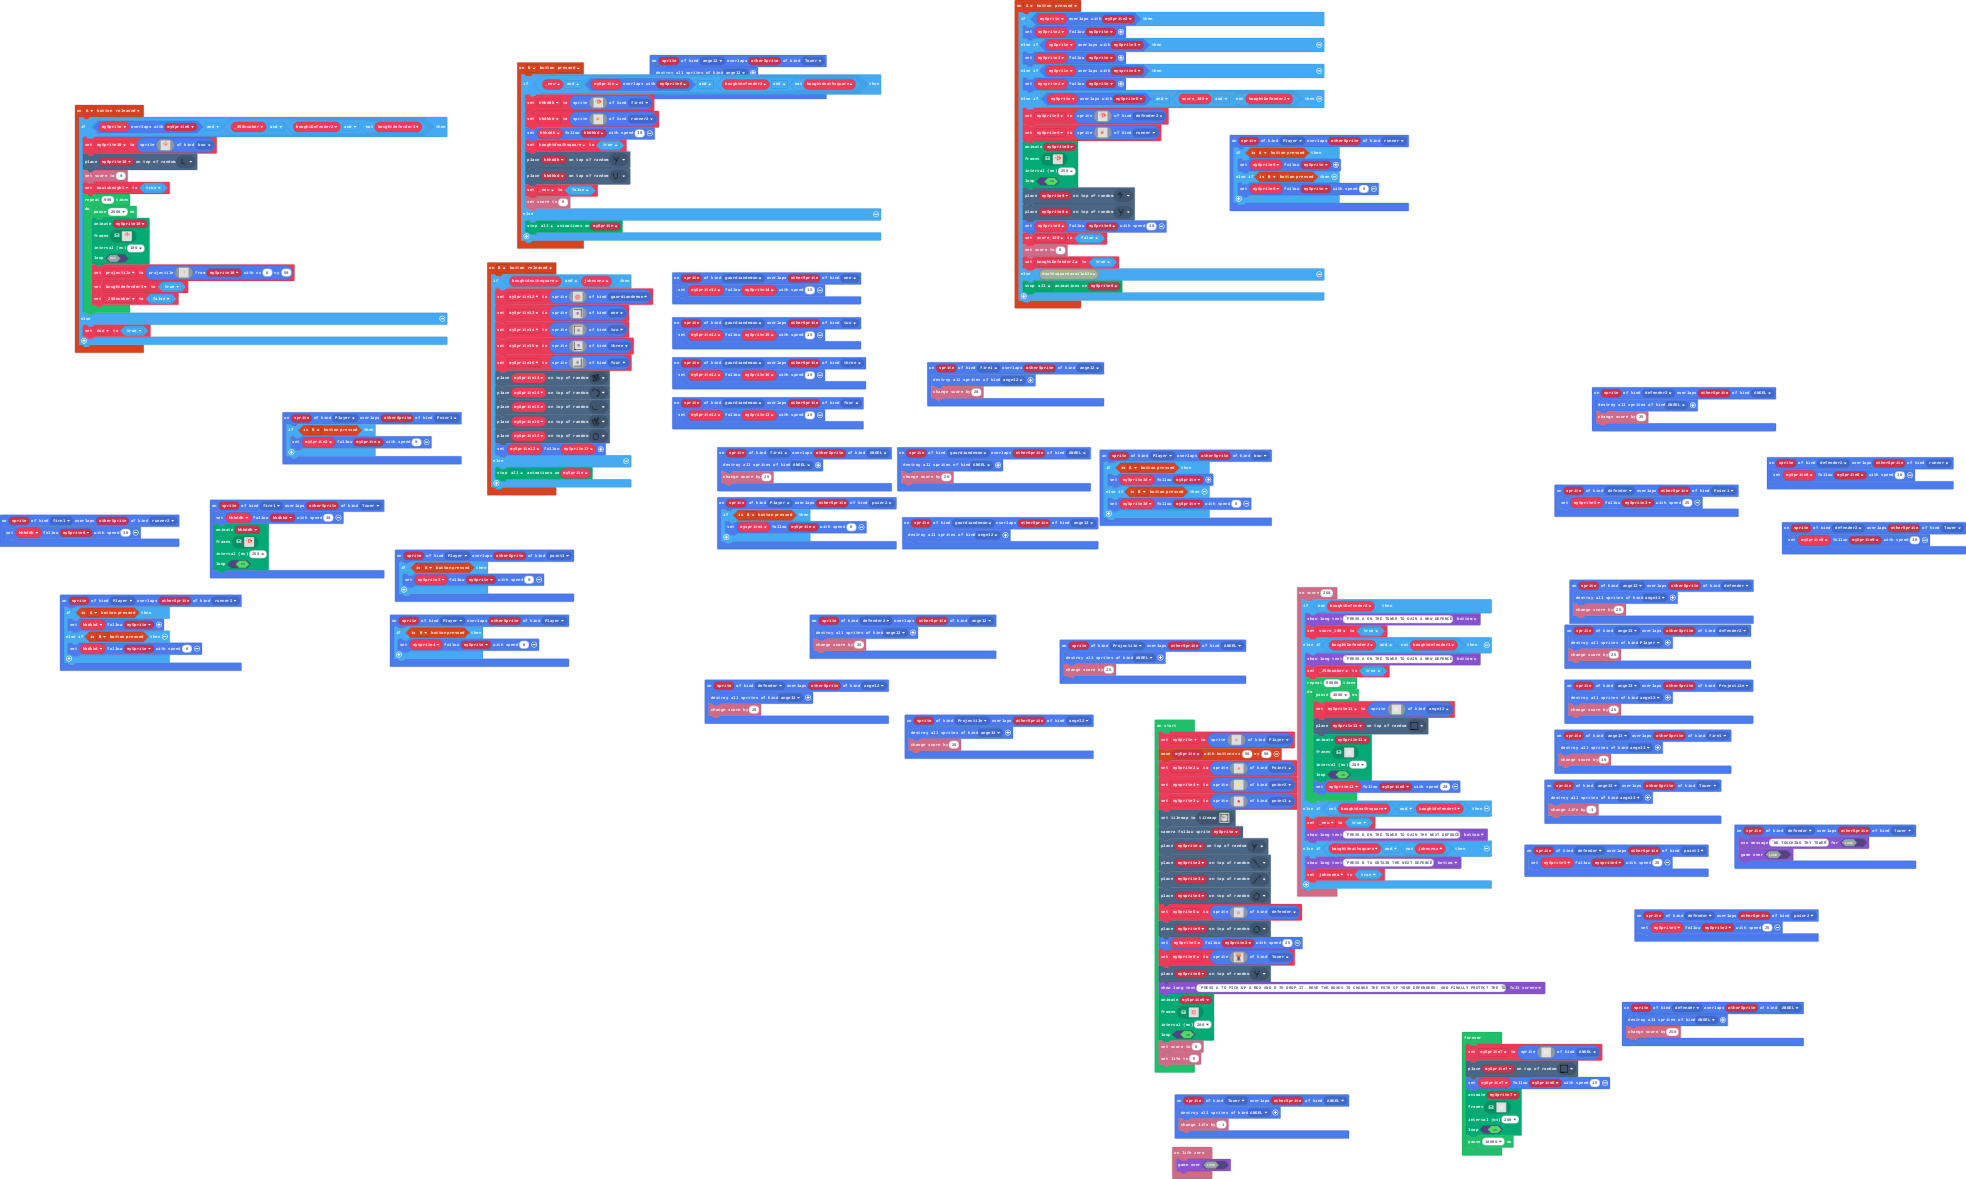
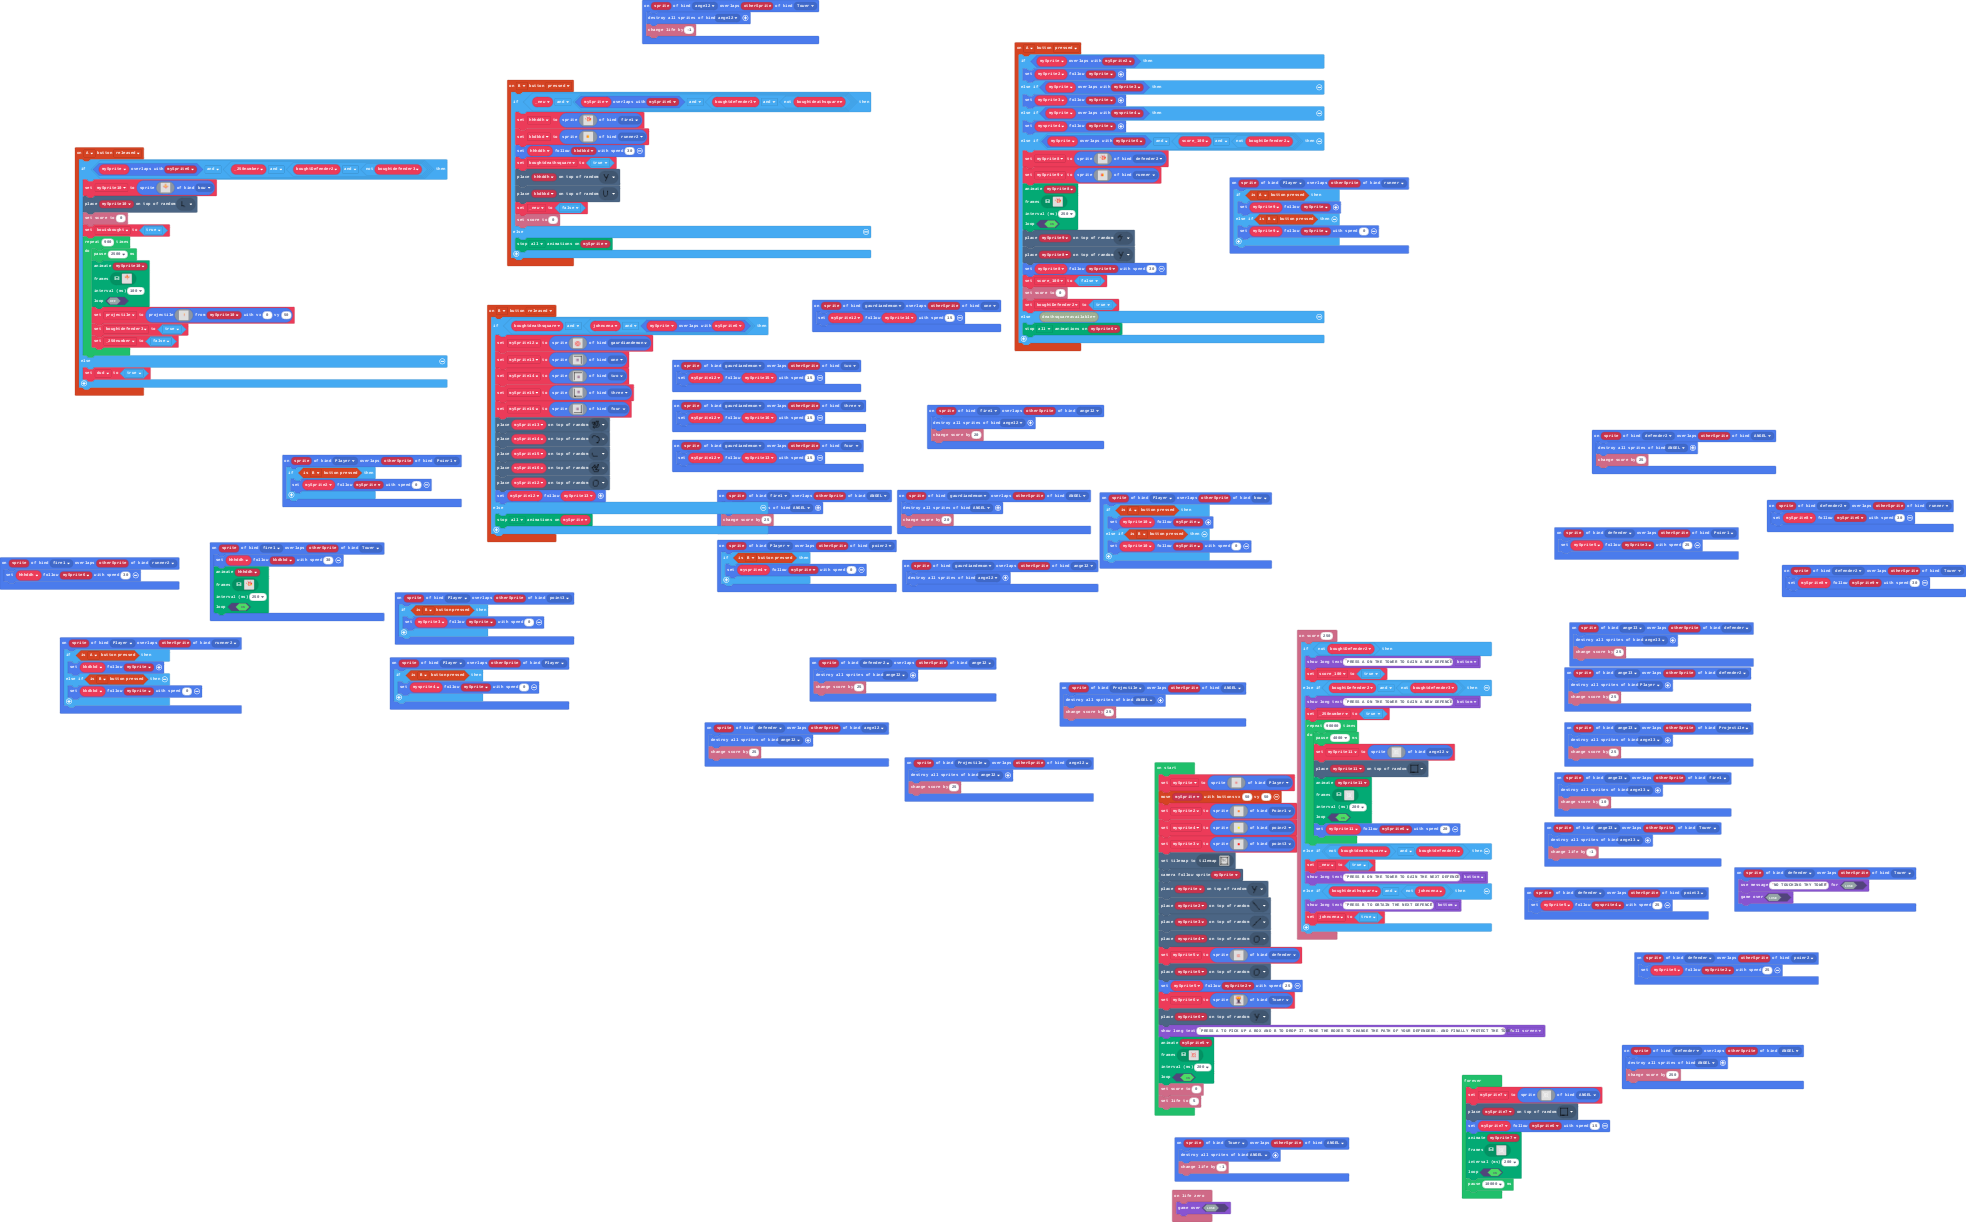
Update main.blocks, main.ts

Changed region(s): [[0.0, 0.0, 0.7136, 0.6107], [0.3413, 0.4885, 0.9929, 1.0], [0.7757, 0.3053, 1.0, 0.4885]]

diff --git a/main.ts b/main.ts
@@ -462,7 +462,7 @@ info.onLifeZero(function () {
     game.gameOver(false)
 })
 controller.B.onEvent(ControllerButtonEvent.Released, function () {
-    if (boughtdeathsquare && johncena) {
+    if (boughtdeathsquare && (johncena && mySprite.overlapsWith(mySprite6))) {
         mySprite12 = sprites.create(img`
             ........................
             ........................
